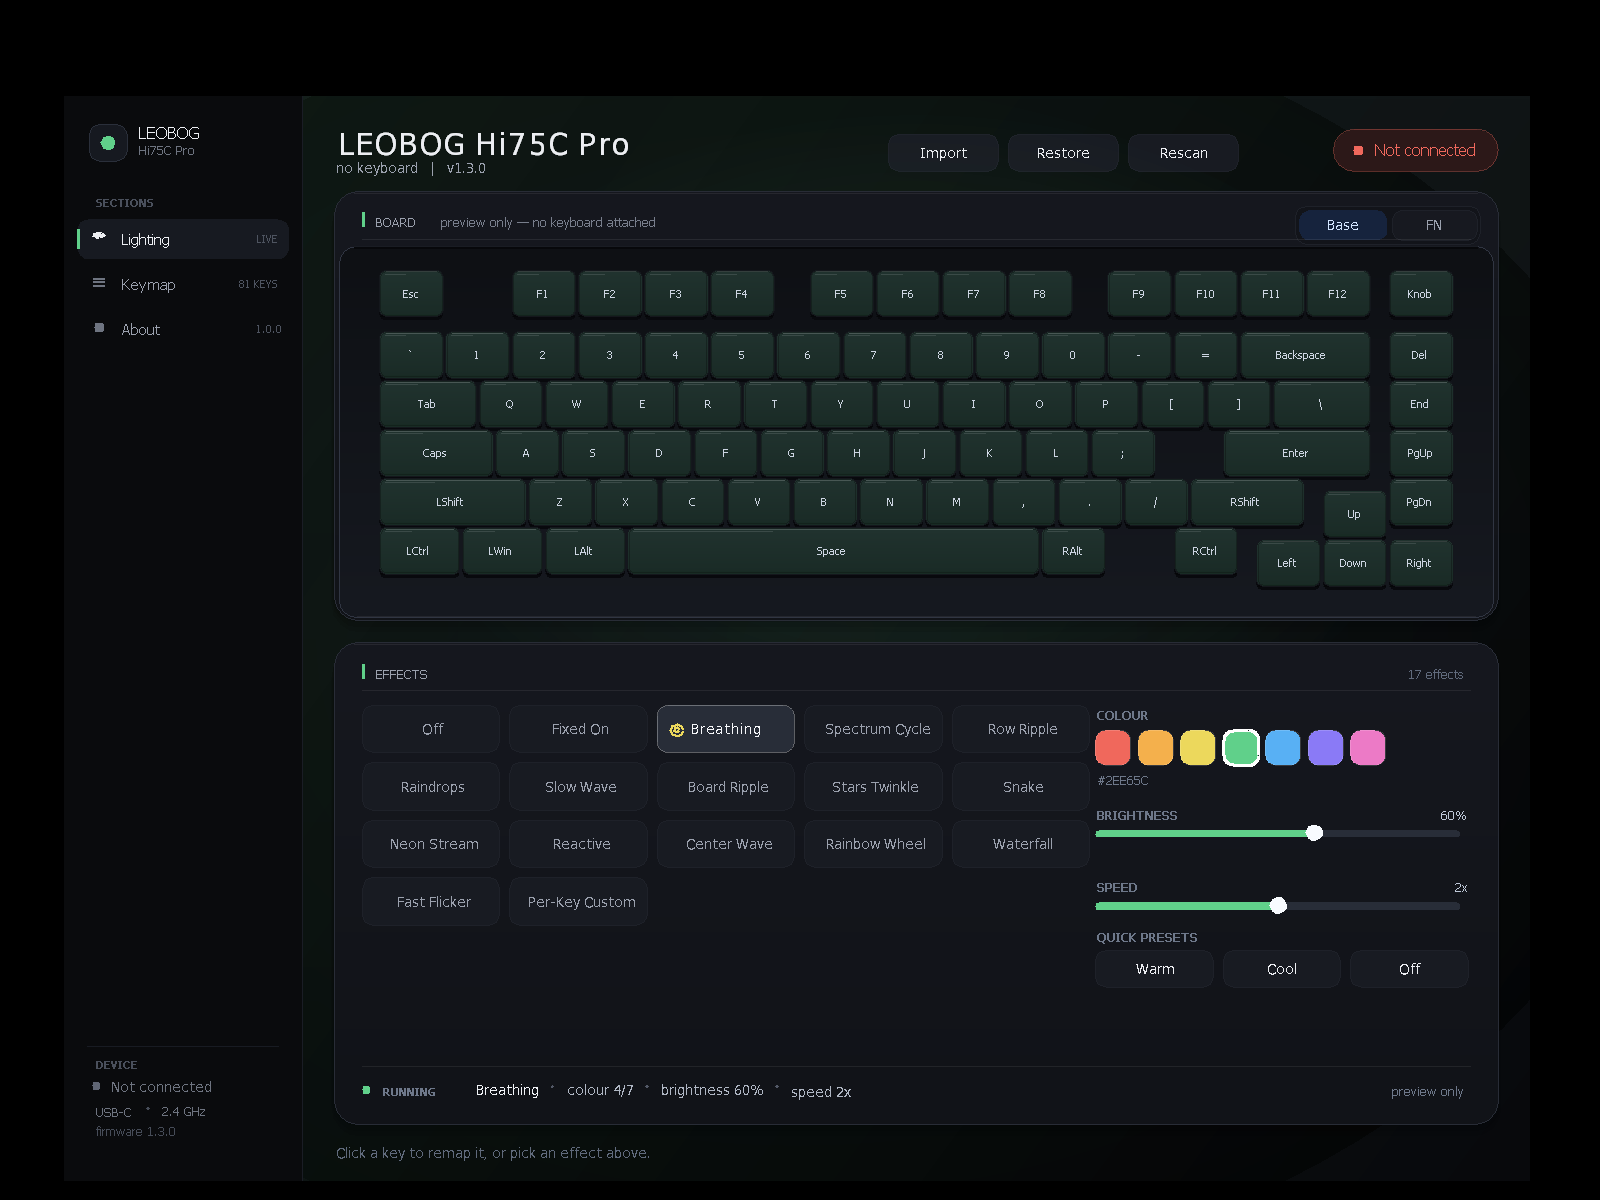
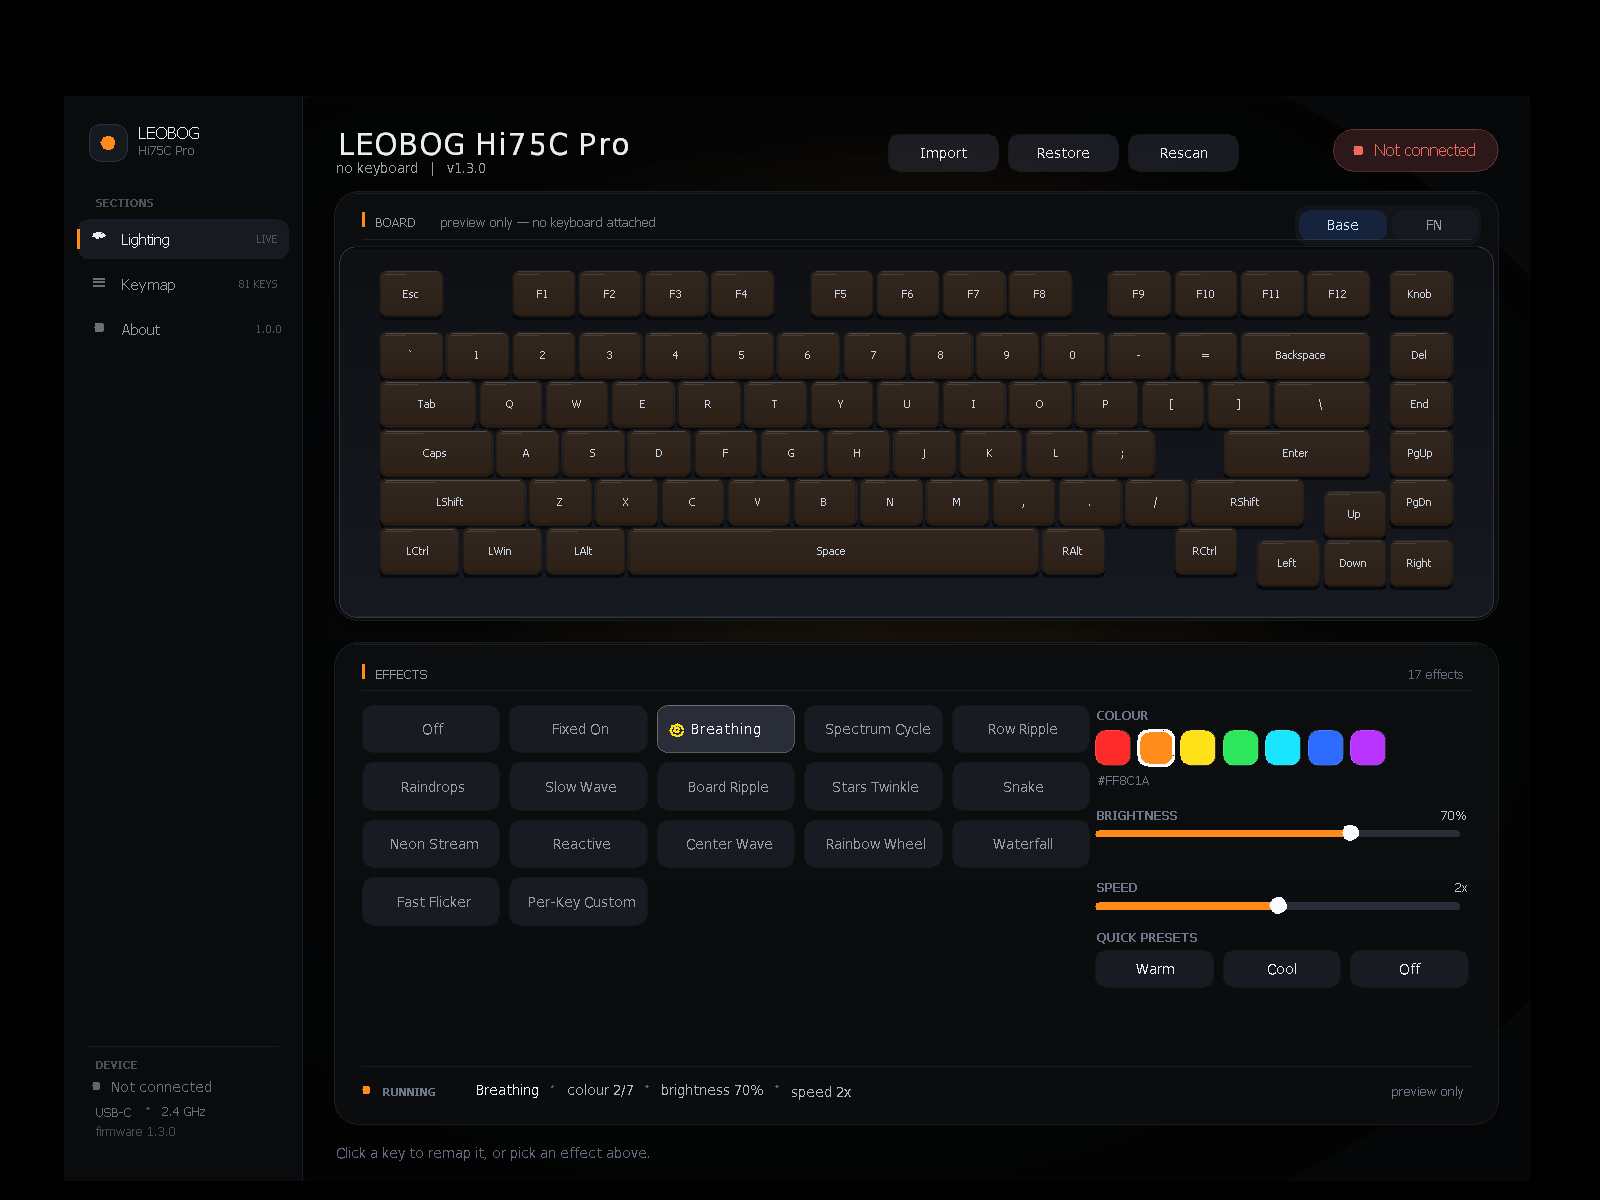
design: template palette, neutral chrome, template defaults

Changed region(s): [[0.6875, 0.5858, 0.875, 0.6475], [0.6875, 0.6783, 0.8438, 0.7092], [0.6875, 0.74, 0.7812, 0.7708]]

diff --git a/ui_native.cpp b/ui_native.cpp
@@ -25,24 +25,25 @@ static HWND g_hwnd;
 static const wchar_t *g_face = L"Tahoma";
 
 /* ---- design tokens: near-black canvas, one accent, hierarchy by weight ---- */
-static const Color C_CANVAS_TOP(255, 13, 14, 18);
-static const Color C_CANVAS_BOT(255, 8, 9, 12);
-static const Color C_SURFACE_TOP(255, 22, 24, 31);
-static const Color C_SURFACE_BOT(255, 17, 19, 24);
-static const Color C_HAIRLINE(255, 40, 44, 54);
-static const Color C_HAIRLINE_SOFT(255, 30, 33, 41);
-static const Color C_INK(255, 236, 238, 242);
-static const Color C_INK_2(255, 155, 161, 174);
-static const Color C_INK_3(255, 110, 116, 128);
+static const Color C_CANVAS_TOP(255, 0x08, 0x09, 0x0A);
+static const Color C_CANVAS_BOT(255, 0x06, 0x07, 0x08);
+static const Color C_SURFACE_TOP(255, 0x0D, 0x0E, 0x10);
+static const Color C_SURFACE_BOT(255, 0x0B, 0x0C, 0x0E);
+static const Color C_HAIRLINE(255, 0x1A, 0x1C, 0x1F);
+static const Color C_HAIRLINE_SOFT(255, 0x15, 0x17, 0x1A);
+static const Color C_INK(255, 0xEC, 0xED, 0xEF);
+static const Color C_INK_2(255, 0x9A, 0x9D, 0xA3);
+static const Color C_INK_3(255, 0x6A, 0x6E, 0x75);
 static const Color C_ACCENT(255, 91, 140, 255);
 static const Color C_ACCENT_DIM(255, 22, 35, 61);
 static const Color C_OK(255, 62, 207, 142);
 static const Color C_BAD(255, 240, 104, 92);
 
+/* the template's palette, verbatim: #FF2B2B #FF8C1A #FFE11A #2EE65C #1AE5FF #2E6BFF #B833FF */
 static const Color SWATCH[7] = {
-    Color(255, 240, 104, 92), Color(255, 244, 176, 76), Color(255, 236, 216, 92),
-    Color(255, 96, 208, 138), Color(255, 88, 176, 244), Color(255, 138, 122, 246),
-    Color(255, 236, 122, 198)
+    Color(255, 0xFF, 0x2B, 0x2B), Color(255, 0xFF, 0x8C, 0x1A), Color(255, 0xFF, 0xE1, 0x1A),
+    Color(255, 0x2E, 0xE6, 0x5C), Color(255, 0x1A, 0xE5, 0xFF), Color(255, 0x2E, 0x6B, 0xFF),
+    Color(255, 0xB8, 0x33, 0xFF)
 };   /* Segoe UI where it exists */
 static int g_hover = -1, g_press = -1;
 static FILE *g_dbg;
@@ -791,14 +792,6 @@ static void paint(HWND hwnd) {
             int nEdge = 1;
             vg.SetSurroundColors(edgeC, &nEdge);
             g.FillRectangle(&vg, 0, 0, rc.right, rc.bottom);
-        }
-        {
-            Color c = SWATCH[(app_state()->colour >= 0 && app_state()->colour < 7)
-                             ? app_state()->colour : 4];
-            LinearGradientBrush wash(PointF(0, 0), PointF((REAL)rc.right, (REAL)rc.bottom),
-                                     Color(26, c.GetR(), c.GetG(), c.GetB()),
-                                     Color(0, 0, 0, 0));
-            g.FillRectangle(&wash, 0, 0, rc.right, rc.bottom);
         }
 
         if (g_dbg) dbg("paint %dx%d scale %.3f", rc.right, rc.bottom, g_scale);

diff --git a/app.c b/app.c
@@ -67,7 +67,7 @@ typedef struct {
 } State;
 
 static AppState g_state_real;
-static State g_state = {0, 1, 0, 9, 1, 0, 113, 227, ""};
+static State g_state = {0, 2, 1, 6, 1, 255, 0x8C, 0x1A, ""};
 static volatile LONG g_shutting_down;
 static CRITICAL_SECTION g_lock;
 
